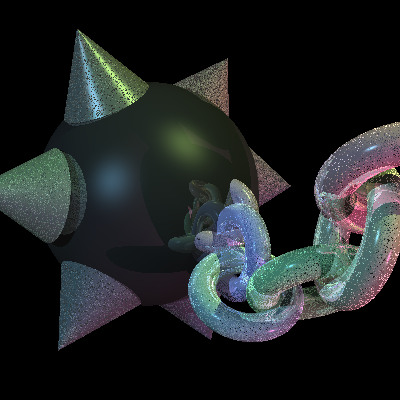
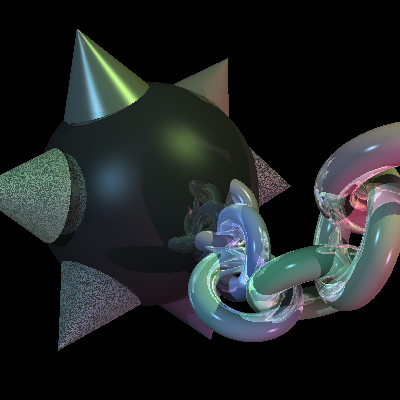
refraction + possible patch on reflexion/shadows on cones/torus

diff --git a/raytracerframework_cpp/scene.cpp b/raytracerframework_cpp/scene.cpp
@@ -25,11 +25,11 @@
 
 std::pair<Hit,Object*> Scene::getNearestIntersectedObj(const Ray& ray)
 {
-	Hit min_hit(std::numeric_limits<double>::infinity(), Vector());
+	Hit min_hit(std::numeric_limits<long double>::infinity(), Vector());
 	Object *obj = NULL;
 	for (unsigned int i = 0; i < objects.size(); ++i) {
 		Hit hit(objects[i]->intersect(ray));
-		if (hit.t < min_hit.t && hit.t > 0) {
+		if (hit.t < min_hit.t) {
 			min_hit = hit;
 			obj = objects[i];
 		}
@@ -64,7 +64,7 @@ Color Scene::trace(const Ray &ray, float minRange, float maxRange, int currentRe
 	*        Vector-Vector      vector difference
 	*        Point-Point        yields vector
 	*        Vector.normalize() normalizes vector, returns length
-	*        double*Color        scales each color component (r,g,b)
+	*        long double*Color        scales each color component (r,g,b)
 	*        Color*Color        dito
 	*        pow(a,b)           a to the power of b
 	****************************************************/
@@ -81,50 +81,19 @@ Color Scene::trace(const Ray &ray, float minRange, float maxRange, int currentRe
 		Color Id = Color(0.0, 0.0, 0.0);
 		Color Is = Color(0.0, 0.0, 0.0);
 
-		for (auto light : lights) 
-		{
-			Vector L = light->position - hit;
-			L.normalize();
-
-			Vector R = 2 * (L.dot(N))*N - L;
-			R.normalize();
-
-			//computation of intersection with othe objects(reflexion) and in between lights(shadows)
-			auto obstacle = getNearestIntersectedObj(Ray(hit, L));
-			double t = obstacle.first.t;
-
-			if (!shadows || !obstacle.second || t > (light->position - hit).length()) {
-				double cosineDiff = L.dot(N);
-				double cosineSpec = R.dot(V);
-				if (cosineDiff >= 0.0) Id += light->color * material->kd * cosineDiff;
-				if (cosineSpec >= 0.0) Is += light->color * material->ks * pow(cosineSpec, material->n);
-			}
-		}
-
-		//computation of reflexion and refraction color:
-		Color reflexionColor = Color(0.0, 0.0, 0.0);
 		Color refractionColor = Color(0.0, 0.0, 0.0);
-
-		if (material->ks != 0.0 && currentReflexion < maxRecursionDepth)
-		{
-			Vector ReflexionRay = 2*(V.dot(N))*N-V;
-			ReflexionRay.normalize();
-			reflexionColor = trace(Ray(hit,ReflexionRay),minRange,maxRange,currentReflexion+1);
-		}
-
 		if (material->refract && currentReflexion < maxRecursionDepth) 
 		{
-			Vector Vnorm = -V;
+			Vector Vnorm = ray.D;
 			//Vnorm.normalize();
 			Vector Nnorm = N;
-			//Nnorm.normalize();
 
-			double cosRefract = Vnorm.dot(Nnorm);
+			long double cosRefract = Vnorm.dot(Nnorm);
 			if (cosRefract >  1.0) cosRefract =  1.0;
 			if (cosRefract < -1.0) cosRefract = -1.0;
 
-			double etaIn = 1.0;
-			double etaOut = material->eta;
+			long double etaIn = 1.0;
+			long double etaOut = material->eta;
 
 			if (cosRefract < 0.0) cosRefract = -cosRefract;  //we are getting in the object
 			else {
@@ -132,15 +101,47 @@ Color Scene::trace(const Ray &ray, float minRange, float maxRange, int currentRe
 				Nnorm = -Nnorm;
 			}
 
-			double eta = etaIn / etaOut;
-			double k = 1 - eta * eta * (1 - cosRefract * cosRefract);
-			
+			long double eta = etaIn / etaOut;
+			long double k = 1 - eta * eta * (1 - cosRefract * cosRefract);
+
 			Vector RefractionRay = Vector(0.0, 0.0, 0.0);
-			if (k > 0) {
+			if (k >= 0) {
 				RefractionRay = eta * Vnorm + (eta * cosRefract - sqrt(k)) * Nnorm;
 				RefractionRay.normalize();
-				refractionColor = trace(Ray(hit, RefractionRay), minRange, maxRange, currentReflexion+1);
+				refractionColor = trace(Ray(hit+RefractionRay*0.01, RefractionRay), minRange, maxRange, currentReflexion+1);
 			}
+		}
+		else if(!material->refract)
+		{
+			for (auto light : lights) 
+			{
+				Vector L = light->position - hit;
+				L.normalize();
+
+				Vector R = 2 * (L.dot(N))*N - L;
+				R.normalize();
+
+				//computation of intersection with othe objects(reflexion) and in between lights(shadows)
+				auto obstacle = getNearestIntersectedObj(Ray(hit+L*0.01, L));
+				long double t = obstacle.first.t;
+
+				if (!shadows || !obstacle.second || t > (light->position - hit).length()) {
+					long double cosineDiff = L.dot(N);
+					long double cosineSpec = R.dot(V);
+					if (cosineDiff >= 0.0) Id += light->color * material->kd * cosineDiff;
+					if (cosineSpec >= 0.0) Is += light->color * material->ks * pow(cosineSpec, material->n);
+				}
+			}
+		}
+
+		//computation of reflexion and refraction color:
+		Color reflexionColor = Color(0.0, 0.0, 0.0);
+
+		if (material->ks != 0.0 && currentReflexion < maxRecursionDepth)
+		{
+			Vector ReflexionRay = 2*(V.dot(N))*N-V;
+			ReflexionRay.normalize();
+			reflexionColor = trace(Ray(hit+ReflexionRay*0.01,ReflexionRay),minRange,maxRange,currentReflexion+1);
 		}
 
 		Is += reflexionColor * material->ks;

diff --git a/raytracerframework_cpp/triple.h b/raytracerframework_cpp/triple.h
@@ -25,7 +25,7 @@ using namespace std;
 
 class Triple {
 public:
-    explicit Triple(double X = 0, double Y = 0, double Z = 0)
+    explicit Triple(long double X = 0, long double Y = 0, long double Z = 0)
         : x(X), y(Y), z(Z)
     {
     }
@@ -35,12 +35,12 @@ public:
         return Triple(x+t.x, y+t.y, z+t.z);
     }
 
-    Triple operator+(double f) const
+    Triple operator+(long double f) const
     {
         return Triple(x+f, y+f, z+f);
     }
 
-    friend Triple operator+(double f, const Triple &t)
+    friend Triple operator+(long double f, const Triple &t)
     {
         return Triple(f+t.x, f+t.y, f+t.z);
     }
@@ -55,12 +55,12 @@ public:
         return Triple(x-t.x, y-t.y, z-t.z);
     }
 
-    Triple operator-(double f) const
+    Triple operator-(long double f) const
     {
         return Triple(x-f, y-f, z-f);
     }
 
-    friend Triple operator-(double f, const Triple &t)
+    friend Triple operator-(long double f, const Triple &t)
     {
         return Triple(f-t.x, f-t.y, f-t.z);
     }
@@ -70,19 +70,19 @@ public:
         return Triple(x*t.x,y*t.y,z*t.z);
     }
 
-    Triple operator*(double f) const
+    Triple operator*(long double f) const
     {
         return Triple(x*f, y*f, z*f);
     }
 
-    friend Triple operator*(double f, const Triple &t)
+    friend Triple operator*(long double f, const Triple &t)
     {
         return Triple(f*t.x, f*t.y, f*t.z);
     }
 
-    Triple operator/(double f) const
+    Triple operator/(long double f) const
     {
-        double invf = 1.0/f;
+        long double invf = 1.0/f;
         return Triple(x*invf, y*invf, z*invf);
     }
 
@@ -94,7 +94,7 @@ public:
         return *this;
     }
 
-    Triple& operator+=(double f)
+    Triple& operator+=(long double f)
     {
         x += f;
         y += f;
@@ -110,7 +110,7 @@ public:
         return *this;
     }
 
-    Triple& operator-=(double f)
+    Triple& operator-=(long double f)
     {
         x -= f;
         y -= f;
@@ -118,7 +118,7 @@ public:
         return *this;
     }
 
-    Triple& operator*=(const double f)
+    Triple& operator*=(const long double f)
     {
         x *= f;
         y *= f;
@@ -126,9 +126,9 @@ public:
         return *this;
     }
 
-    Triple& operator/=(const double f)
+    Triple& operator/=(const long double f)
     {
-        double invf = 1.0/f;
+        long double invf = 1.0/f;
         x *= invf;
         y *= invf;
         z *= invf;
@@ -136,7 +136,7 @@ public:
     }
 
 
-    double dot(const Triple &t) const
+    long double dot(const Triple &t) const
     {
         return x*t.x + y*t.y + z*t.z;
     }
@@ -148,12 +148,12 @@ public:
             x*t.y - y*t.x);
     }
 
-    double length() const
+    long double length() const
     {
         return sqrt(length_2());
     }
 
-    double length_2() const
+    long double length_2() const
     {
         return x*x + y*y + z*z;
     }
@@ -165,8 +165,8 @@ public:
 
     void normalize()
     {
-        double l = length();
-        double invl = 1/l;
+        long double l = length();
+        long double invl = 1/l;
         x *= invl;
         y *= invl;
         z *= invl;
@@ -176,29 +176,29 @@ public:
     friend ostream& operator<<(ostream &s, const Triple &v);
 
     // Functions for when used as a Color:
-    void set(double f)
+    void set(long double f)
     {
         r = g = b = f;
     }
 
-    void set(double f, double maxValue)
+    void set(long double f, long double maxValue)
     {
         set(f/maxValue);
     }
 
-    void set(double red, double green, double blue)
+    void set(long double red, long double green, long double blue)
     {
         r = red;
         g = green;
         b = blue;
     }
 
-    void set(double r, double g, double b, double maxValue)
+    void set(long double r, long double g, long double b, long double maxValue)
     {
         set(r/maxValue,g/maxValue,b/maxValue);
     }
 
-    void clamp(double maxValue = 1.0)
+    void clamp(long double maxValue = 1.0)
     {
         if (r > maxValue) r = maxValue;
         if (g > maxValue) g = maxValue;
@@ -206,16 +206,16 @@ public:
     }
 
     union {
-        double data[3];
+        long double data[3];
         struct {
-            double x;
-            double y;
-            double z;
+            long double x;
+            long double y;
+            long double z;
         };
         struct {
-            double r;
-            double g;
-            double b;
+            long double r;
+            long double g;
+            long double b;
         };
     };
 };

diff --git a/raytracerframework_cpp/sphere.cpp b/raytracerframework_cpp/sphere.cpp
@@ -45,18 +45,16 @@ Hit Sphere::intersect(const Ray &ray)
     Ray TransformedRay = transform(ray);
 
 	//second order equation solving
-	double a = TransformedRay.D.dot(TransformedRay.D);
-	double b = 2.0 * TransformedRay.O.dot(TransformedRay.D);
-	double c = TransformedRay.O.dot(TransformedRay.O) - r*r;
+	long double a = TransformedRay.D.dot(TransformedRay.D);
+	long double b = 2.0 * TransformedRay.O.dot(TransformedRay.D);
+	long double c = TransformedRay.O.dot(TransformedRay.O) - r*r;
 
 
-	double disc = b*b - 4.0*a*c;
+	long double disc = b*b - 4.0*a*c;
 
 	if (disc < 0) {
 		return Hit::NO_HIT();
 	}
-
-	double t = (-b - sqrt(disc)) / (2.0*a);
 	
     /****************************************************
     * RT1.2: NORMAL CALCULATION
@@ -67,10 +65,20 @@ Hit Sphere::intersect(const Ray &ray)
     * Insert calculation of the sphere's normal at the intersection point.
     ****************************************************/
 
+    double t;
+    double t1 = (-b - sqrt(disc)) / (2.0*a);
+    double t2 = (-b + sqrt(disc)) / (2.0*a);
+
+    if (t1 < t2 && t1 > 0.0) t = t1;
+    else {
+        if (t2 > 0.0) t = t2;
+        else return Hit::NO_HIT();
+    }
+
 	Point intersect = ray.O + t * ray.D;
 	
 	Vector N = (Vector) (intersect - position);
 	N.normalize();
-
+    
     return Hit(t,N);
 }

diff --git a/raytracerframework_cpp/sphere.h b/raytracerframework_cpp/sphere.h
@@ -26,11 +26,11 @@
 class Sphere : public Object
 {
 public:
-    Sphere(Point position,Triple rotation,double r) : Object(position,rotation), r(r) { }
+    Sphere(Point position,Triple rotation,long double r) : Object(position,rotation), r(r) { }
 
     virtual Hit intersect(const Ray &ray);
     
-    const double r;
+    const long double r;
 };
 
 #endif /* end of include guard: SPHERE_H_115209AE */
